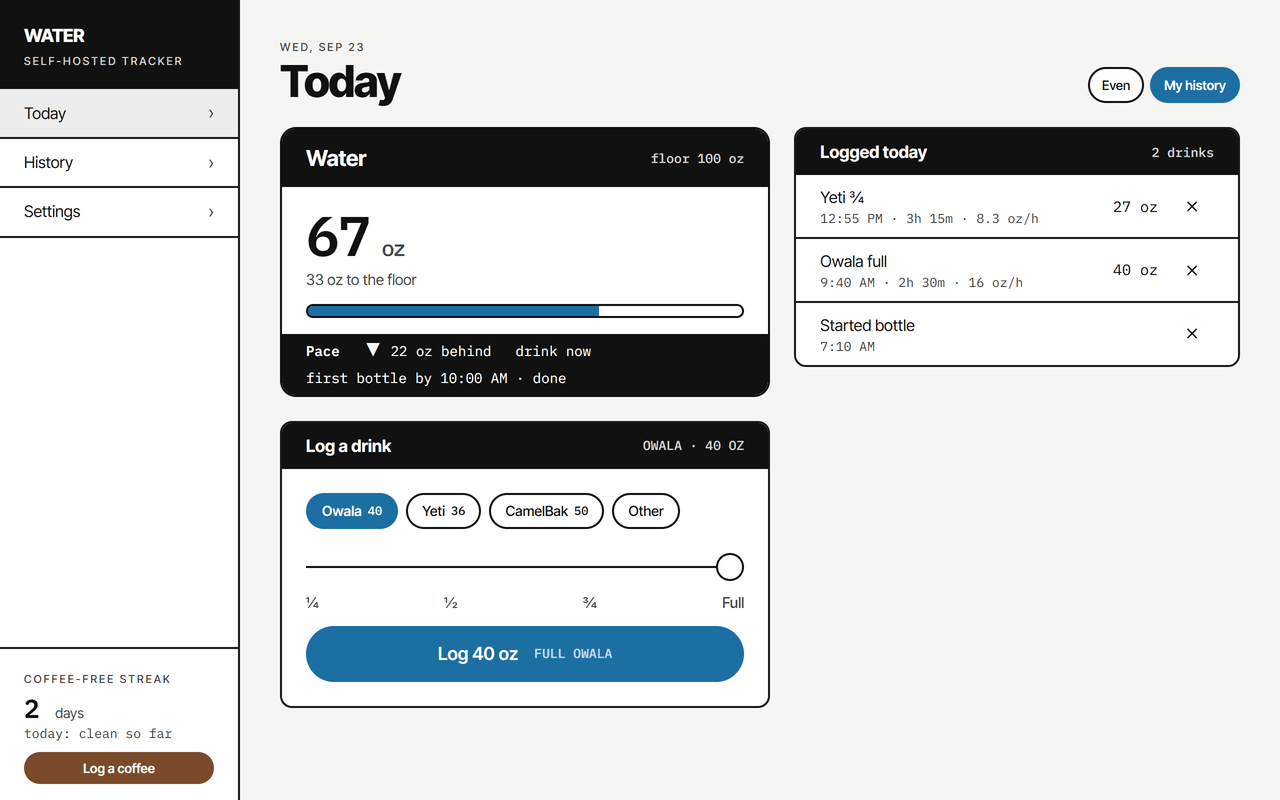
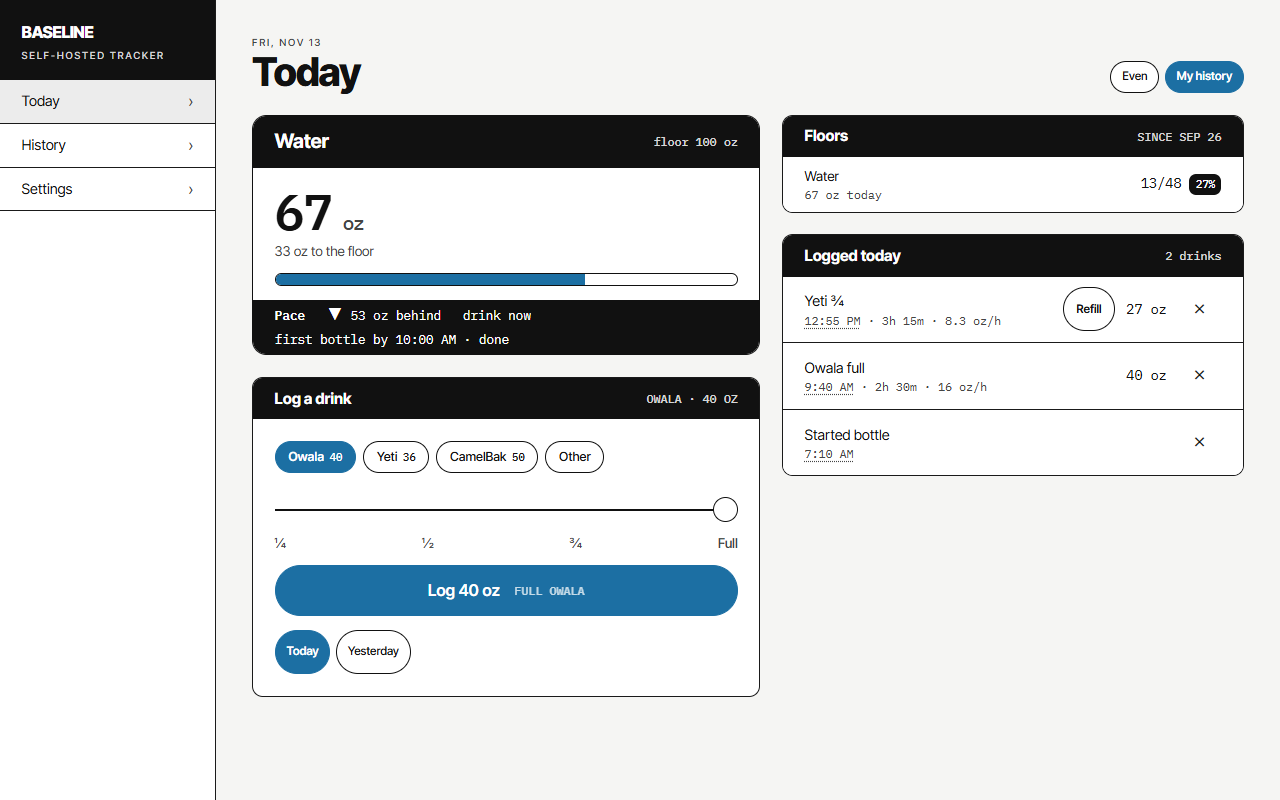
docs: retake the README screenshots for 2.0 (water and the Floors, demo data)

diff --git a/README.md b/README.md
@@ -5,7 +5,7 @@ Docker on your own machine, Postgres for data. Built one feature at a time as a 
 the process is documented in [CONTRIBUTING.md](CONTRIBUTING.md).
 
 <p>
-  <img src="docs/screenshots/today-light.png" width="240" alt="Today on a phone, light mode: 67 oz of a 100 oz floor, pace 22 oz behind, bottle picker and slider">
+  <img src="docs/screenshots/today-light.png" width="240" alt="Today on a phone, light mode: 67 oz of a 100 oz floor, pace 53 oz behind, bottle picker and slider">
   <img src="docs/screenshots/today-dark.png" width="240" alt="Today on a phone, dark mode">
 </p>
 
@@ -33,7 +33,7 @@ What it does:
   taps land locally and sync, in order, when the server is reachable. A banner says what is waiting
   ("2 drinks waiting to sync"), and another offers "New version — tap to reload" after an update.
 
-<img src="docs/screenshots/desktop-light.png" width="720" alt="Desktop layout: sidebar navigation, today's total, bottle log, and today's drinks with durations">
+<img src="docs/screenshots/desktop-light.png" width="720" alt="Desktop layout: sidebar navigation, today's total, bottle log, the Floors card, and today's drinks with durations">
 
 Screenshots use generated demo data. Release notes: [CHANGELOG.md](CHANGELOG.md). Feature specs are in `docs/specs/`; the 2.0 change is
 [docs/specs/split.md](docs/specs/split.md).
